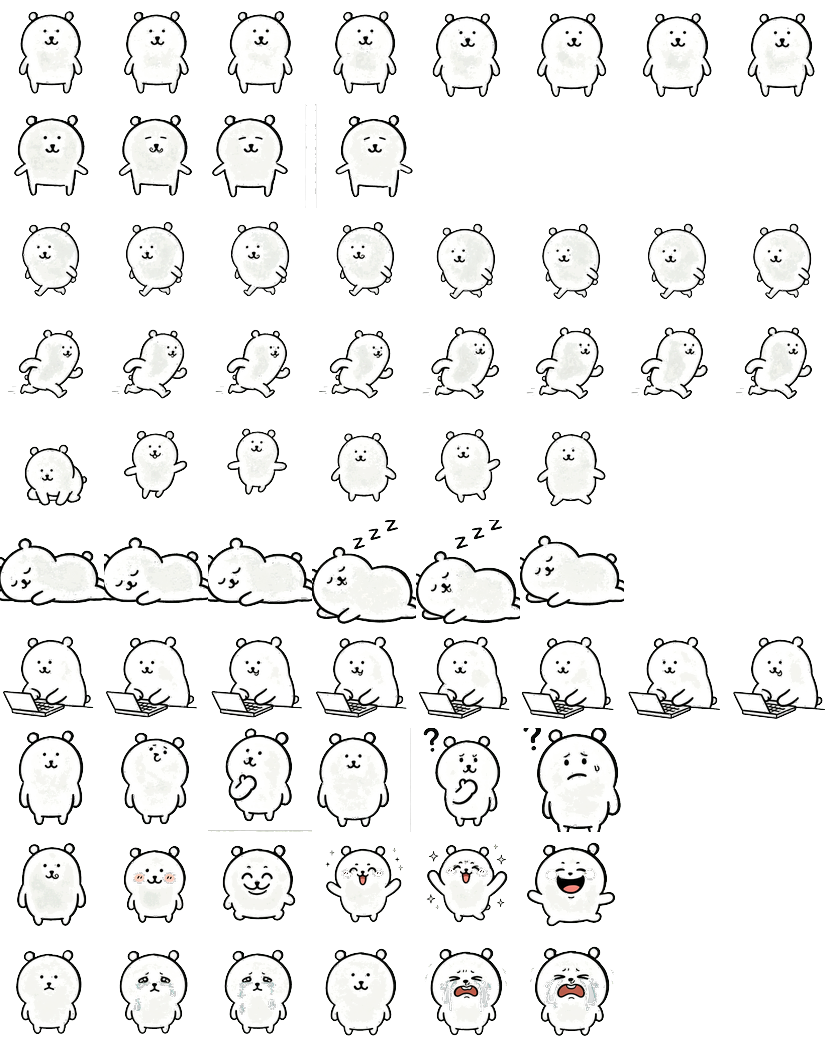
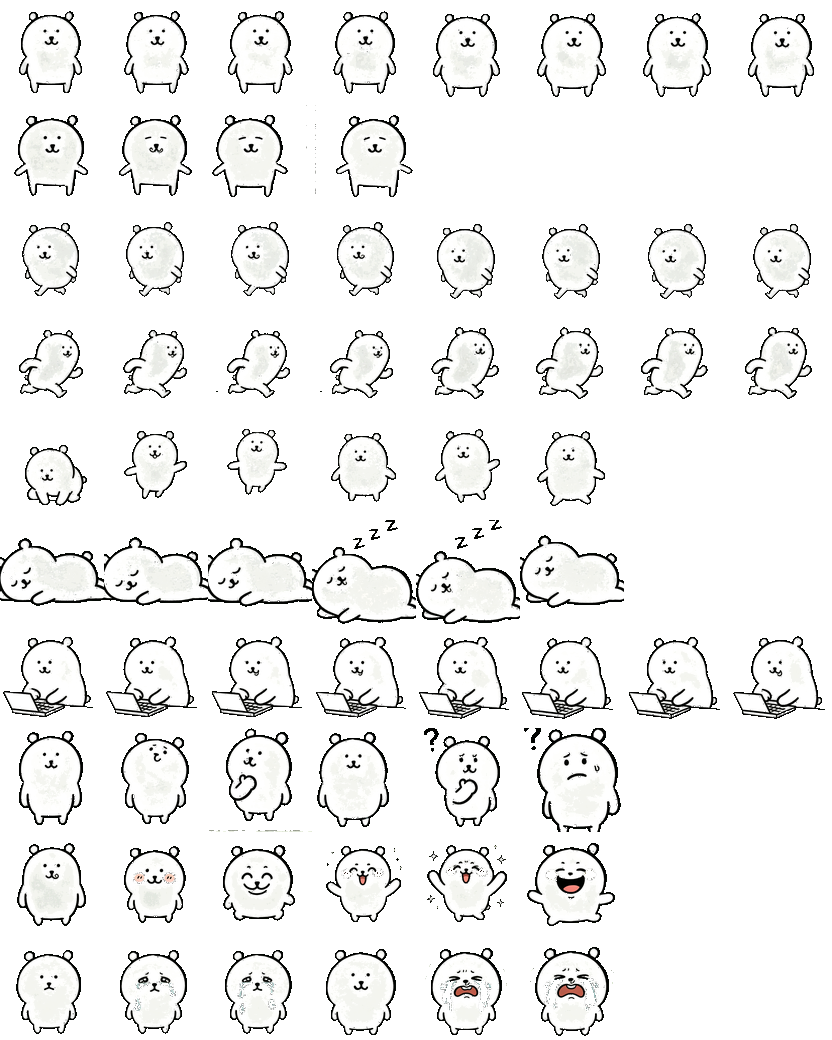
fix: 问题8方块阴影解决 + 问题7部分缓解
- 移除 canvas 的 rgba(0,0,0,0.01) 底色残留（白框实验残留，整窗 alpha=1 黑
  在白色背景下呈大方块阴影）→ 方块阴影消失
- 合并脚本灰色半透明硬化（灰色像素二值化）：半透明灰 12081 → 0，
  水渍灰透明度降低（彩色边缘羽化保留）

Changed region(s): [[0.6875, 0.9538, 0.7188, 0.9846]]

diff --git a/src/renderer/index.html b/src/renderer/index.html
@@ -29,9 +29,6 @@
         width: 100%;
         height: 100%;
         cursor: default;
-        /* 实验：alpha=1 的极淡底色让窗口不再是"全透明"，
-           DWM 对 layered window 走不同合成路径（消除内容更新轮廓伪影） */
-        background: rgba(0, 0, 0, 0.01);
       }
       /* 气泡（bottom 由脚本按形象动态设置） */
       .bubble {
